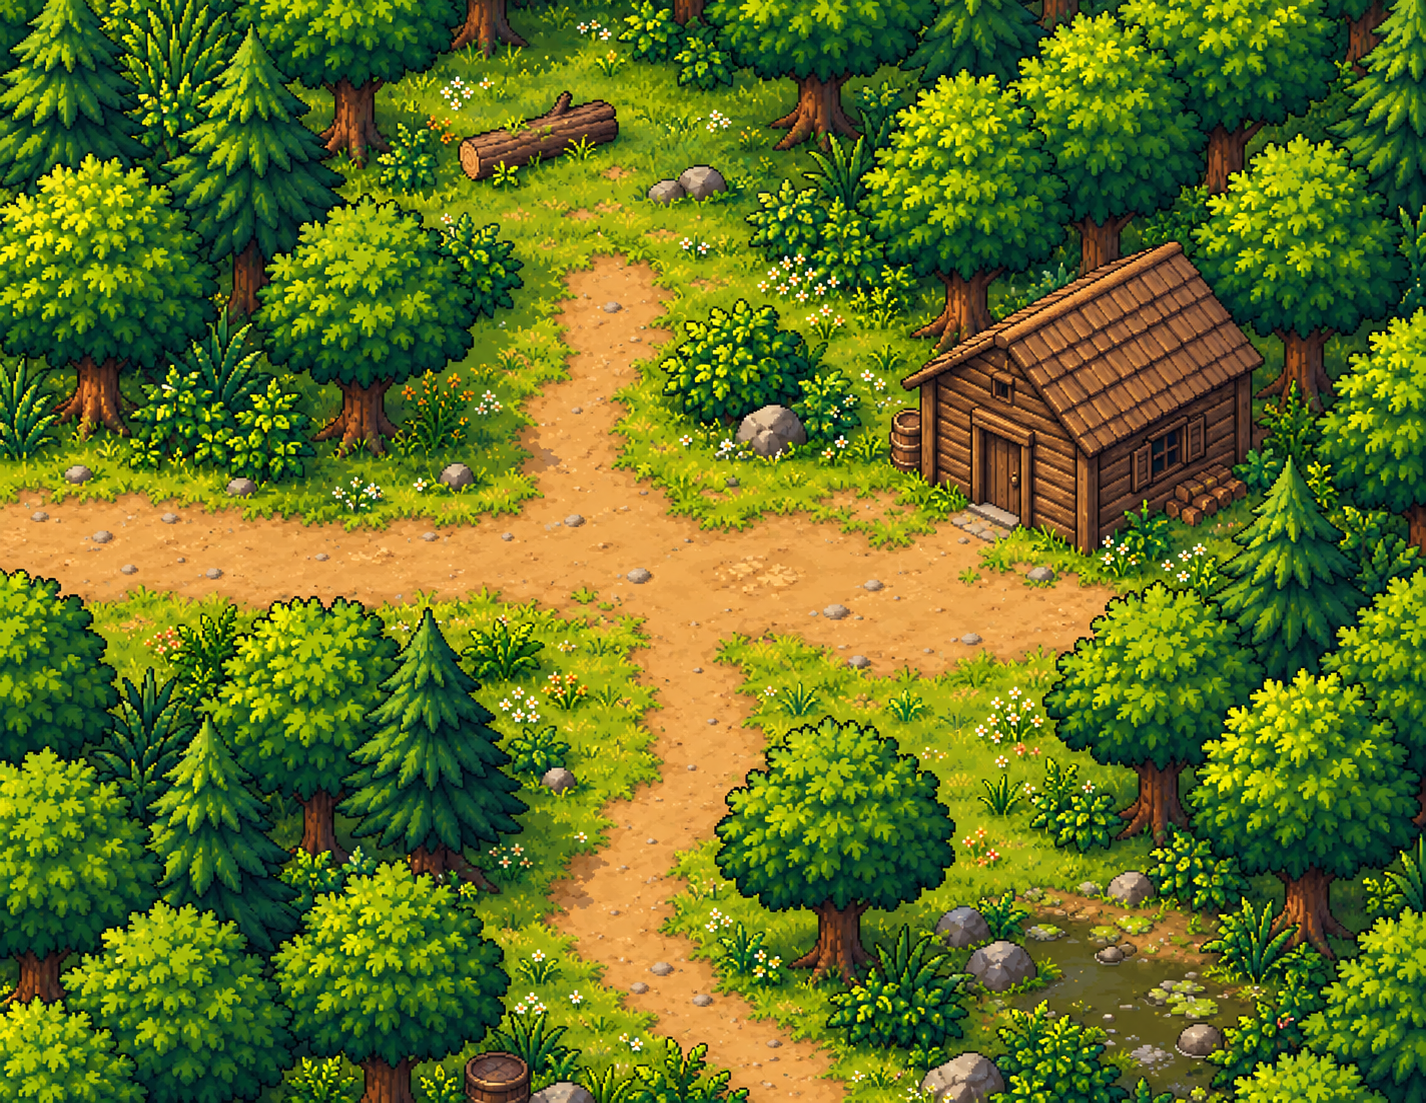
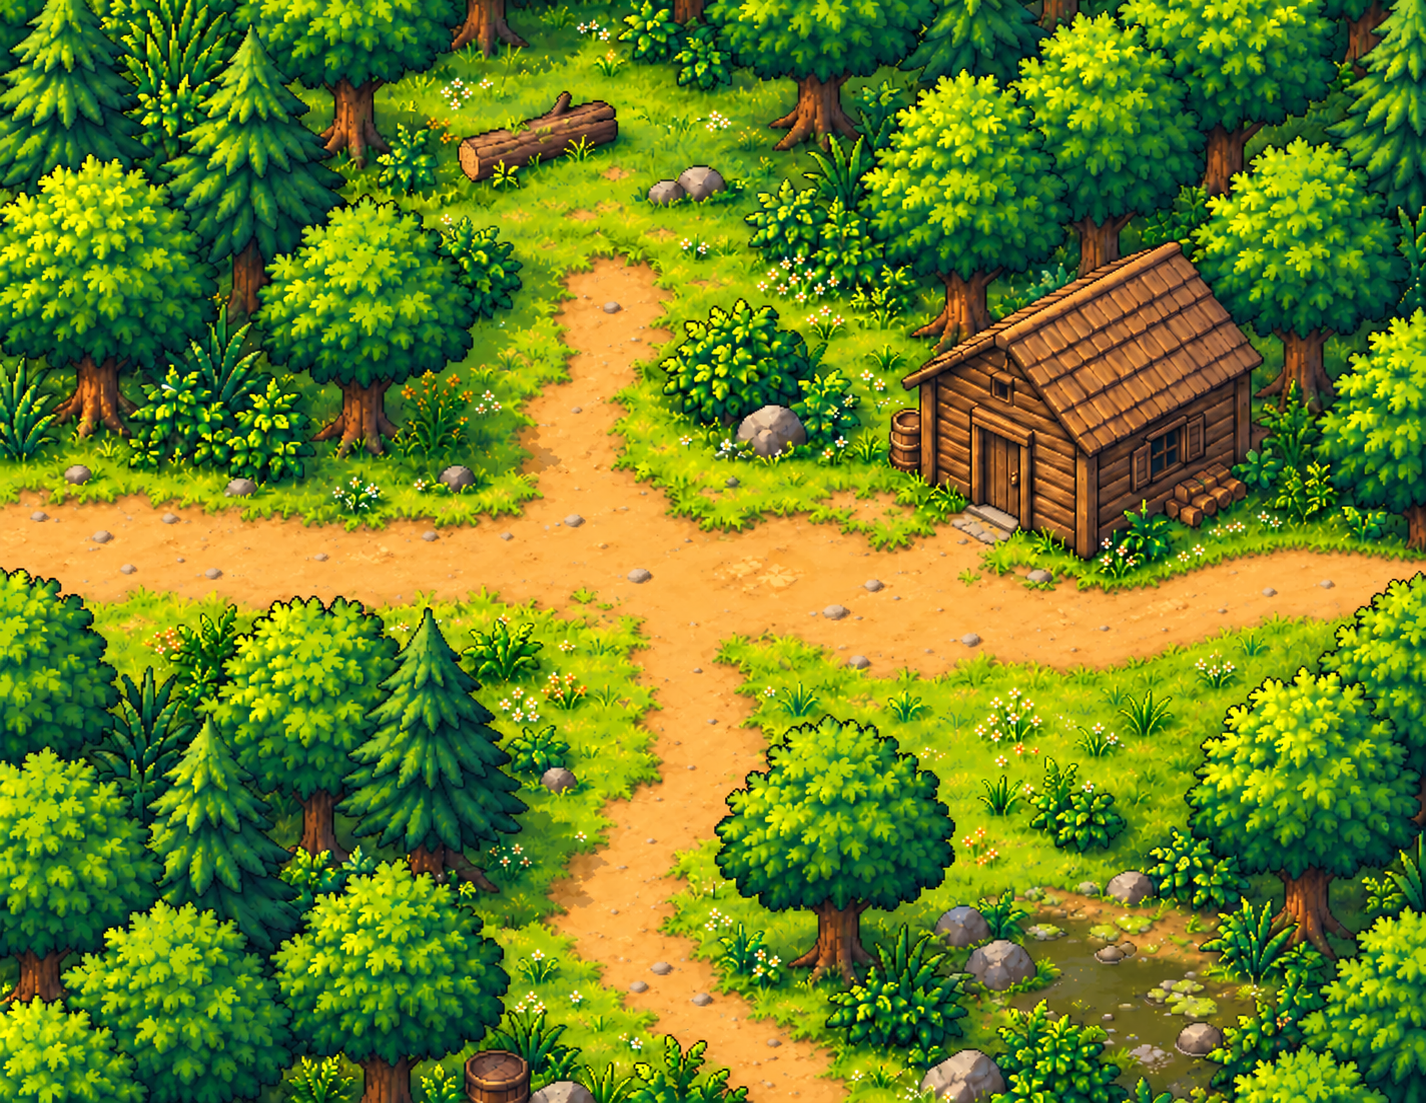
feat: quarry and deep forest zones (background only), new forest and mine path art, map
- New backgrounds for the forest (new east exit) and the mine path (new south exit,
  cropped from 1666 to 1665 px so every coordinate stays exact).
- New scenes "quarry" and "forest-deep" with background only: no colliders, exits or
  arrivals until the hand-drawn export arrives. Both are in /dev/collisions.
- Map: Cantera and Bosque profundo with their paths; the map is 652 wide and the
  compass moved to the bottom right.
- docs/DESIGN_ITEMS_QUESTS_DRAFT.md: proposal for 8 new cooking items and Day 1
  quests (draft, nothing approved beyond what it marks).

diff --git a/src/game/map/mapLocations.ts b/src/game/map/mapLocations.ts
@@ -12,6 +12,8 @@ export type MapLocationId =
   | "river"
   | "forest"
   | "cottage"
+  | "quarry"
+  | "forest-deep"
   | "farm"
   | "mill"
   | "bakery"
@@ -31,7 +33,8 @@ export type MapLocation = {
   y: number;
 };
 
-export const MAP_SIZE = { width: 560, height: 270 };
+// Seven columns now: the deep forest sits east of the forest, in the new last one.
+export const MAP_SIZE = { width: 652, height: 270 };
 
 const COLUMN = (index: number) => 44 + 94 * index;
 const ROW = (index: number) => [52, 135, 218][index];
@@ -50,6 +53,10 @@ export const MAP_LOCATIONS: MapLocation[] = [
   { id: "mill", label: "MOLINO", labelEn: "MILL", x: COLUMN(5), y: ROW(0) },
   // The Casita del bosque: south of the Forest.
   { id: "cottage", label: "CASITA", labelEn: "COTTAGE", x: COLUMN(5), y: ROW(2) },
+  // New zones (2026-11-10): the quarry camp south of the mountain path, the
+  // woodcutter's deep forest east of the forest.
+  { id: "quarry", label: "CANTERA", labelEn: "QUARRY", x: COLUMN(0), y: ROW(2) },
+  { id: "forest-deep", label: "BOSQUE PROFUNDO", labelEn: "DEEP FOREST", x: COLUMN(6), y: ROW(1) },
 ];
 
 // Paths between places (undirected), following the real connections.
@@ -65,6 +72,8 @@ export const MAP_LINKS: [MapLocationId, MapLocationId][] = [
   ["river", "farm"],
   ["farm", "mill"],
   ["forest", "cottage"],
+  ["mountain", "quarry"],
+  ["forest", "forest-deep"],
 ];
 
 // Every technical scene belongs to exactly one place (the Record type makes
@@ -91,6 +100,8 @@ export const SCENE_TO_MAP_LOCATION: Record<SceneId, MapLocationId> = {
   "smithy-street": "smithy",
   "smithy-interior": "smithy",
   "mountain-path": "mountain",
+  quarry: "quarry",
+  "forest-deep": "forest-deep",
   "mine-interior": "mine",
   "mine-natural-cave": "mine",
 };

diff --git a/src/game/new-world-map/newWorldVisuals.ts b/src/game/new-world-map/newWorldVisuals.ts
@@ -130,6 +130,34 @@ export const NEW_WORLD_VISUALS: DevScene[] = [
     logicalUnitsPerAssetPixel: 0.8,
     colliders: mountainPathColliders,
   },
+  // NEW ZONES (background only until Kilian paints their colliders, exits and
+  // spawns in /dev/collisions). The quarry is the same 1665x944 size as the mine
+  // path and is reached from its new south exit; the deep forest is the same
+  // size as the forest and is reached from the forest's new east exit. They use
+  // their neighbour's units per pixel so the Doctor has the same size.
+  // initialAsset* is only the preview start of the dev tools, not a spawn.
+  {
+    id: "quarry",
+    label: "Cantera (nuevo mundo)",
+    backgroundSrc: `${DIR}/quarry-background.png`,
+    assetWidth: 1665,
+    assetHeight: 944,
+    initialAssetX: 860,
+    initialAssetY: 140,
+    logicalUnitsPerAssetPixel: 0.8,
+    colliders: [],
+  },
+  {
+    id: "forest-deep",
+    label: "Bosque profundo (nuevo mundo)",
+    backgroundSrc: `${DIR}/forest-deep-background.png`,
+    assetWidth: 1427,
+    assetHeight: 1102,
+    initialAssetX: 110,
+    initialAssetY: 590,
+    logicalUnitsPerAssetPixel: 1,
+    colliders: [],
+  },
 ];
 
 // The inside of the cottage: unmodified copy of the approved 1426x1103 image.

diff --git a/src/game/new-world-map/newWorldScenes.ts b/src/game/new-world-map/newWorldScenes.ts
@@ -143,9 +143,29 @@ export const NEW_WORLD_SCENES: Record<
   | "granary-interior"
   | "farm"
   | "mill-farmland"
-  | "mountain-path",
+  | "mountain-path"
+  | "quarry"
+  | "forest-deep",
   ExteriorWorldScene
 > = {
+  // New zones: background only. Their colliders, exits and arrivals come from
+  // Kilian's exports; until then they cannot be entered (no scene leads here).
+  quarry: {
+    id: "quarry",
+    kind: "exterior",
+    visual: visual("quarry"),
+    colliders: [],
+    exits: [],
+    arrivals: {},
+  },
+  "forest-deep": {
+    id: "forest-deep",
+    kind: "exterior",
+    visual: visual("forest-deep"),
+    colliders: [],
+    exits: [],
+    arrivals: {},
+  },
   "granary-interior": {
     id: "granary-interior",
     kind: "exterior",

diff --git a/src/game/world/worldScenes.ts b/src/game/world/worldScenes.ts
@@ -134,6 +134,8 @@ export type SceneId =
   | "smithy-street"
   | "smithy-interior"
   | "mountain-path"
+  | "quarry"
+  | "forest-deep"
   | "mine-interior"
   | "mine-natural-cave"
   | "doctor-room";
@@ -197,7 +199,14 @@ function visualOf(devSceneId: string): DevScene {
 
 // The OLD exterior world (default). The new one lives in src/game/new-world-map.
 export const OLD_WORLD_SCENES: Record<
-  Exclude<SceneId, "forest-cottage" | "forest-cottage-interior" | "granary-interior">,
+  Exclude<
+    SceneId,
+    | "forest-cottage"
+    | "forest-cottage-interior"
+    | "granary-interior"
+    | "quarry"
+    | "forest-deep"
+  >,
   WorldScene
 > = {
   "apothecary-interior": {

diff --git a/src/game/map/MapOverlay.tsx b/src/game/map/MapOverlay.tsx
@@ -40,6 +40,7 @@ const ICON_GROUND = 450 / 512;
 const ICON_TOP: Record<MapLocationId, number> = {
   pharmacy: 30, plaza: 109, tavern: 114, bakery: 61, smithy: 87, forest: 106,
   cottage: 127, farm: 155, mill: 46, mountain: 132, mine: 150, river: 233,
+  quarry: 154, "forest-deep": 51,
 };
 const iconSrc = (id: MapLocationId) => `/game/ui/map/${id}.png`;
 
@@ -336,7 +337,8 @@ export function MapOverlay({
           </g>
         ) : null}
 
-        <Compass x={290} y={690} />
+        {/* bottom right: the quarry took the bottom-left corner */}
+        <Compass x={1660} y={690} />
       </svg>
     </div>
   );

diff --git a/src/app/dev/collisions/page.tsx b/src/app/dev/collisions/page.tsx
@@ -264,6 +264,13 @@ const EDITOR_SCENES: {
     idPrefix: "mill-farmland",
     exportPrefix: "millFarmland",
   },
+  // New zones: they start empty (nothing is preloaded because nothing is drawn yet).
+  { sceneId: "quarry", idPrefix: "quarry", exportPrefix: "quarry" },
+  {
+    sceneId: "forest-deep",
+    idPrefix: "forest-deep",
+    exportPrefix: "forestDeep",
+  },
 ];
 type EditorSceneConfig = (typeof EDITOR_SCENES)[number];
 const PANEL_WIDTH = 380;

diff --git a/src/app/dev/scene/scenes.ts b/src/app/dev/scene/scenes.ts
@@ -324,6 +324,10 @@ export const DEV_SCENES: DevScene[] = [
     (scene) =>
       NEW_WORLD_VISUALS.find((visual) => visual.id === scene.id) ?? scene,
   ),
+  // New-world zones that have no old-world scene (the quarry, the deep forest).
+  ...NEW_WORLD_VISUALS.filter(
+    (visual) => !OLD_DEV_SCENES.some((scene) => scene.id === visual.id),
+  ),
   FOREST_COTTAGE_VISUAL,
   FOREST_COTTAGE_INTERIOR_VISUAL,
 ];

diff --git a/docs/DESIGN_ITEMS_QUESTS_DRAFT.md b/docs/DESIGN_ITEMS_QUESTS_DRAFT.md
@@ -1,0 +1,107 @@
+# Borrador: más objetos, cocina medicinal y misiones (día 1)
+
+**Estado: BORRADOR para que lo corrijas.** Solo lo marcado con ✅ lo has aprobado
+tú. Todo lo demás son propuestas mías: nombres, precios, usos, líneas de diálogo
+y cantidades están pendientes de tu decisión. No hay nada implementado.
+
+## 1. Lo decidido (✅)
+
+- ✅ Cocina medicinal: más comida además de medicinas.
+- ✅ Hasta 8 objetos nuevos, algunos solo ingredientes. El mercader tendrá más cosas.
+- ✅ El mercader vende **sal** (1 moneda) y el Doctor empieza con **4 monedas** (hoy 3).
+  El agradecimiento de la panadera pasa a ser un extra.
+- ✅ Misiones del día 1: una en cada zona nueva (bosque profundo, cantera) y una
+  del pueblo. Cada una da ingredientes y una conversación que cuente algo.
+- ✅ El leñador pasa al fondo del bosque. El bosque profundo da resina y/o setas.
+- ✅ La cantera: más personajes y más ingredientes.
+- Tus fotos de las dos zonas nuevas ya existen; faltan colliders, salidas, spawns y
+  decoración, que son tuyos.
+
+## 2. ¿Cuesta mucho? Lo que sí y lo que no
+
+| Parte | Esfuerzo | Notas |
+|---|---|---|
+| Objetos y recetas en datos (`items.ts`, `recipes.ts`) | Bajo | Las reglas del mortero, la guarda de "no lo necesito" y la guía de ingredientes ya funcionan con datos |
+| Reorganizar tratamientos de pacientes | Bajo-medio | Es cambiar `requiredTreatments`; cuesta más reescribir los diálogos que los nombran |
+| Mercader con más cosas | Bajo | Ya existe la tienda y su pantalla |
+| 8 iconos de inventario y 8 ilustraciones del Compendio | **Medio** | Con Codex, como el mapa. El Compendio tiene las páginas de ingredientes llenas: hace falta una página nueva y ajustar su test |
+| Textos ES/EN (nombres, descripciones, diálogos de misiones) | **Medio** | Los marco todos para tu revisión |
+| Equilibrio entre días | **Lo difícil** | Es tu observación: ingredientes ↔ crafteo ↔ dolencias ↔ motivo para explorar |
+
+El equilibrio se puede **comprobar con tests**, no solo a ojo. Ya hay uno para el
+día 1 (`tests/day1-solvable.test.mjs`): con las fuentes que existen, los pacientes se
+pueden completar y las monedas alcanzan. Lo ampliaré a los días 2 y 3.
+
+## 3. Propuesta de 8 objetos (cocina medicinal)
+
+Edad media: sin patata ni tomate. Origen y precio son propuestas.
+
+| Objeto | Origen | Receta nueva | Para qué dolencia |
+|---|---|---|---|
+| Cebada | Molino / granja | Agua de cebada (cebada + agua), fuego | Fiebre, alternativa a la infusión |
+| Huevo | Mujer de la granja | Yema con miel (huevo + miel), mesa | Agotamiento |
+| Cebolla | Granja o mercader | Jarabe de cebolla (cebolla + miel), fuego | Tos, alternativa al jarabe balsámico |
+| Vinagre | Mercader (monedas) | Compresa de vinagre (vinagre + tela), mesa | Heridas, fiebre alta |
+| Setas de pino | Bosque profundo | Caldo de setas (setas + agua + sal), fuego | Estómago, agotamiento |
+| Bayas | Bosque profundo | Jarabe de bayas (bayas + miel), fuego | Escorbuto |
+| Hueso para caldo | Campamento de la cantera | Caldo de huesos (hueso + agua + sal), fuego | Agotamiento, estómago |
+| Corteza de sauce | Bosque profundo | Infusión de sauce (agua + corteza), fuego; la corteza se tritura en el mortero | Fiebre y dolor |
+
+El mortero sigue la regla acordada: solo tritura (corteza, ajo, hierba, carbón).
+Las mezclas se hacen en la mesa o al fuego.
+
+**Mercader (propuesta):** sal 1, tela 1 (×3), ajo 2 (ya aprobado), vinagre y cebolla
+(precios por decidir; no redondos). Todo lo que vende sirve para avanzar.
+
+## 4. Dolencias y tratamientos
+
+El Compendio ya promete más variedad que la que usan los pacientes: "sopa ligera,
+leche con miel o un preparado de carbón" para el estómago; infusión de menta o
+jarabe balsámico para la tos; bebida cítrica para escorbuto y agotamiento. Los
+objetos nuevos se apoyan en eso, sin cambiar el texto del libro.
+
+| Dolencia | Hoy (requerido) | Alternativas con objetos nuevos |
+|---|---|---|
+| Fiebre común | infusión medicinal + paño frío | agua de cebada, infusión de sauce, compresa de vinagre |
+| Mal del estómago | sopa de setas + leche con miel | caldo de setas, caldo de huesos |
+| Herida infectada | vendaje desinfectado + ungüento | compresa de vinagre |
+| Tos del pecho (día 3) | por definir | jarabe de cebolla, infusión de menta, jarabe balsámico |
+| Escorbuto (día 3) | por definir | jarabe de bayas, bebida cítrica |
+| Agotamiento | bebida cítrica + infusión de menta | yema con miel, caldo de huesos |
+
+Pregunta de diseño: ¿el paciente exige un tratamiento concreto, o varios valen
+(el jugador elige según lo que tenga)? Lo segundo da más libertad, pero complica
+los diálogos que nombran el objeto.
+
+## 5. Misiones del día 1 (esbozo, sin texto final)
+
+Todas son **opcionales**: no bloquean a los pacientes.
+
+| Dónde | Quién | Pide (idea) | Da (idea) | Conversación |
+|---|---|---|---|---|
+| Fondo del bosque | Leñador | Algo sencillo de la botica para el cansancio | Corteza de sauce y resina | El bosque, la bruja, por qué trabaja tan lejos |
+| Cantera | Capataz | Un recado o un preparado pequeño | Hueso para caldo | Los mineros, los derrumbes, el campamento |
+| Pueblo | Costurera de la calle de la botica | Algo pequeño | Tela (ahorra una moneda) | Noticias de panadera y taberna |
+
+El leñador de la jornada 2 es un paciente (agotamiento). Si pasa al fondo del bosque,
+su sitio y su ruta cambian también en el capítulo 2; hay que decidirlo.
+
+## 6. Reglas de equilibrio que vigilarán los tests
+
+1. En cada día, todo lo que piden los pacientes sale de fuentes reales (recogidas,
+   trueques, mercader, misiones) y las monedas cubren el gasto obligatorio.
+2. Las misiones no son obligatorias: sin ellas el día se completa.
+3. Cada zona nueva aporta al menos una cosa útil y alcanzable (lo comprueba el
+   verificador de alcanzabilidad cuando tengan colliders).
+4. Cada objeto nuevo tiene al menos una receta y un uso (paciente, alternativa o misión).
+5. Sin callejones: ningún objeto necesario queda solo detrás de otro opcional.
+
+## 7. Preguntas abiertas
+
+- ¿Qué objetos de los 8 te gustan, cuáles cambiarías y cuáles faltan?
+- ¿Un tratamiento por dolencia o varios válidos?
+- ¿El leñador sigue siendo paciente el día 2 en el fondo del bosque?
+- ¿La costurera es la vecina del día 1 o prefieres otra persona?
+- Precios del mercader (invento valores no redondos para tu revisión).
+- Orden de trabajo: primero datos y mercader, luego arte (Codex), luego misiones
+  cuando lleguen los colliders de las dos zonas.
